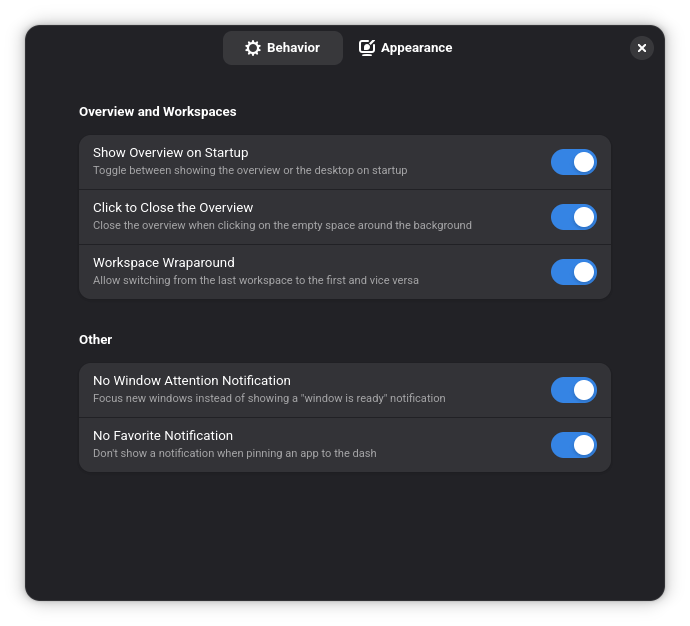
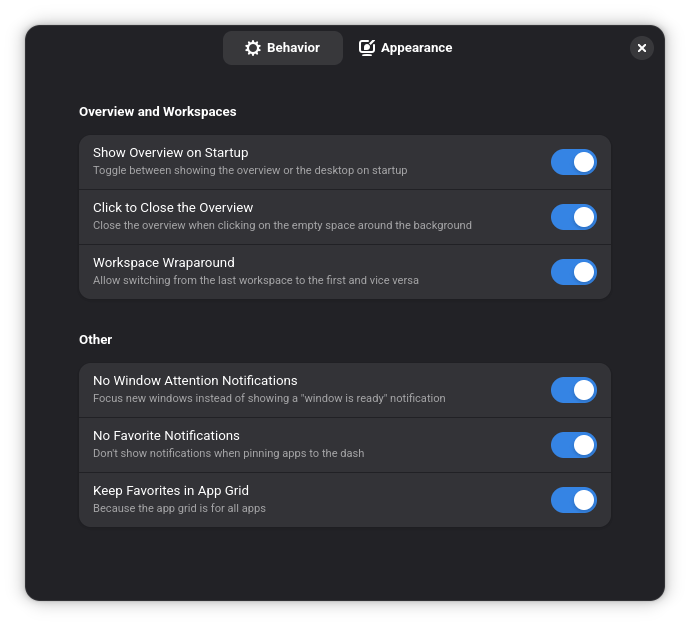
Keep favorite apps in app grid

Changed region(s): [[0.1217, 0.7588, 0.3957, 0.8195], [0.213, 0.6981, 0.5478, 0.7284], [0.7913, 0.7588, 0.8826, 0.8195]]

diff --git a/src/lib/keepFavoritesInAppGrid.js b/src/lib/keepFavoritesInAppGrid.js
@@ -1,0 +1,108 @@
+import GObject from 'gi://GObject';
+
+import * as Main from 'resource:///org/gnome/shell/ui/main.js';
+import * as AppFavorites from 'resource:///org/gnome/shell/ui/appFavorites.js';
+
+import { AppDisplay, FolderView } from 'resource:///org/gnome/shell/ui/appDisplay.js';
+import { DashIcon } from 'resource:///org/gnome/shell/ui/dash.js';
+import { DragDropResult } from 'resource:///org/gnome/shell/ui/dnd.js';
+import { InjectionManager } from 'resource:///org/gnome/shell/extensions/extension.js';
+
+export class KeepFavoritesInAppGrid {
+  constructor(settings) {
+    this._settings = settings;
+    this._appDisplay = Main.overview._overview.controls.appDisplay;
+    this._favorites = AppFavorites.getAppFavorites();
+
+    // Create an AppFavorites instance that later pretends to have no favorites
+    this._dummyFavorites = new this._favorites.constructor();
+
+    this._signal = this._settings.connect('changed::keep-favorites-in-app-grid', () => {
+      this.update();
+    });
+
+    this._injectionManager = new InjectionManager();
+  }
+
+  update() {
+    if (this._settings.get_boolean('keep-favorites-in-app-grid')) {
+      this.enable();
+    } else {
+      this.disable();
+    }
+  }
+
+  enable() {
+    const mod = this;
+
+    // Show favorites in AppDisplay
+    this._injectionManager.overrideMethod(AppDisplay.prototype, '_redisplay', originalFn => function () {
+      this._appFavorites = mod._dummyFavorites;
+
+      originalFn.call(this);
+
+      // Fix folder icon previews not showing favorite apps
+      // https://github.com/brunos3d/pinned-apps-in-appgrid/issues/3
+      if (this._folderIcons) {
+        this._folderIcons.forEach(folderIcon => {
+          if (folderIcon && folderIcon.icon) {
+            folderIcon.icon.update();
+          }
+        });
+      }
+    });
+
+    // Show favorites in FolderView
+    this._injectionManager.overrideMethod(FolderView.prototype, '_redisplay', originalFn => function () {
+      this._appFavorites = mod._dummyFavorites;
+
+      originalFn.call(this);
+    });
+
+    // Remove apps from favorites when they are dragged from the dash to the app grid
+    this._injectionManager.overrideMethod(this._appDisplay, 'acceptDrop', originalFn => function (source) {
+      // Gjs_dash-to-dock_micxgx_gmail_com_appIcons_DockAppIcon
+      // Gjs_dash-to-panel_jderose9_github_com_appIcons_TaskbarAppIcon
+      const isDashIcon = source instanceof DashIcon || GObject.type_name(source).endsWith('AppIcon');
+
+      if (isDashIcon) {
+        if (mod._favorites.isFavorite(source.id)) {
+          mod._favorites.removeFavorite(source.id);
+        }
+
+        return DragDropResult.SUCCESS;
+      }
+
+      return originalFn.call(this, source);
+    });
+
+    this._injectionManager.overrideMethod(this._dummyFavorites, 'isFavorite', () => function () {
+      return false;
+    });
+
+    this._appDisplay._disconnectDnD();
+    this._appDisplay._connectDnD();
+    this._appDisplay._redisplay();
+  }
+
+  disable() {
+    this._injectionManager.clear();
+
+    this._appDisplay._disconnectDnD();
+    this._appDisplay._connectDnD();
+    this._appDisplay._redisplay();
+  }
+
+  destroy() {
+    this._settings.disconnect(this._signal);
+
+    this.disable();
+
+    this._settings = null;
+    this._signal = null;
+    this._appDisplay = null;
+    this._favorites = null;
+    this._dummyFavorites = null;
+    this._injectionManager = null;
+  }
+}

diff --git a/src/prefs.js b/src/prefs.js
@@ -41,7 +41,7 @@ export default class EssentialTweaksPreferences extends ExtensionPreferences {
 
     const noWindowReadyNotificationsRow = new Adw.SwitchRow({
       title: _('No Window Attention Notifications'),
-      subtitle: _('Focus new windows instead of showing a \"window is ready\" notification')
+      subtitle: _('Focus new windows instead of showing a "window is ready" notification')
     });
     otherGroup.add(noWindowReadyNotificationsRow);
 
@@ -50,6 +50,12 @@ export default class EssentialTweaksPreferences extends ExtensionPreferences {
       subtitle: _('Don\'t show notifications when pinning apps to the dash')
     });
     otherGroup.add(noFavoriteNotificationsRow);
+
+    const keepFavoritesInAppGridRow = new Adw.SwitchRow({
+      title: _('Keep Favorites in App Grid'),
+      subtitle: _('Because the app grid is for all apps')
+    });
+    otherGroup.add(keepFavoritesInAppGridRow);
 
     const appearancePage = new Adw.PreferencesPage({
       title: _('Appearance'),
@@ -78,6 +84,7 @@ export default class EssentialTweaksPreferences extends ExtensionPreferences {
     window._settings = this.getSettings();
 
     window._settings.bind('click-to-close-overview', clickToCloseOverviewRow, 'active', Gio.SettingsBindFlags.DEFAULT);
+    window._settings.bind('keep-favorites-in-app-grid', keepFavoritesInAppGridRow, 'active', Gio.SettingsBindFlags.DEFAULT);
     window._settings.bind('no-favorite-notifications', noFavoriteNotificationsRow, 'active', Gio.SettingsBindFlags.DEFAULT);
     window._settings.bind('no-window-ready-notifications', noWindowReadyNotificationsRow, 'active', Gio.SettingsBindFlags.DEFAULT);
     window._settings.bind('panel-corners', panelCornersRow, 'active', Gio.SettingsBindFlags.DEFAULT);

diff --git a/src/lib/panelCorners.js b/src/lib/panelCorners.js
@@ -5,6 +5,7 @@ import GObject from 'gi://GObject';
 import St from 'gi://St';
 
 import * as Main from 'resource:///org/gnome/shell/ui/main.js';
+
 import { ANIMATION_TIME } from 'resource:///org/gnome/shell/ui/overview.js';
 
 export class PanelCorners {
@@ -128,8 +129,8 @@ class PanelCorner extends St.DrawingArea {
     this._radius = 12 * scaleFactor;
 
     this._signals = [
-      this._settings.connect('changed::panel-corners-left-color', this.vfunc_style_changed.bind(this)),
-      this._settings.connect('changed::panel-corners-right-color', this.vfunc_style_changed.bind(this))
+      this._settings.connect('changed::panel-left-corner-color', this.vfunc_style_changed.bind(this)),
+      this._settings.connect('changed::panel-right-corner-color', this.vfunc_style_changed.bind(this))
     ];
 
     this._positionChangeHandler = Main.panel.connect('notify::position', this._updateCornerPosition.bind(this));
@@ -211,7 +212,7 @@ class PanelCorner extends St.DrawingArea {
 
   _getCornerColor() {
     const side = this._side === St.Side.LEFT ? 'left' : 'right';
-    const color = this._settings.get_string(`panel-corners-${side}-color`);
+    const color = this._settings.get_string(`panel-${side}-corner-color`);
 
     return Cogl.color_from_string(color)[1];
   }

diff --git a/src/extension.js b/src/extension.js
@@ -1,6 +1,7 @@
 import { Extension } from 'resource:///org/gnome/shell/extensions/extension.js';
 
 import { ClickToCloseOverview } from './lib/clickToCloseOverview.js';
+import { KeepFavoritesInAppGrid } from './lib/keepFavoritesInAppGrid.js';
 import { NoFavoriteNotifications } from './lib/noFavoriteNotifications.js';
 import { NoOverviewOnStartup } from './lib/noOverviewOnStartup.js';
 import { NoWindowReadyNotifications } from './lib/noWindowReadyNotifications.js';
@@ -14,6 +15,7 @@ export default class EssentialTweaksExtension extends Extension {
 
     this._modules = [
       new ClickToCloseOverview(this._settings),
+      new KeepFavoritesInAppGrid(this._settings),
       new NoFavoriteNotifications(this._settings),
       new NoOverviewOnStartup(this._settings),
       new NoWindowReadyNotifications(this._settings),

diff --git a/src/lib/noFavoriteNotifications.js b/src/lib/noFavoriteNotifications.js
@@ -23,11 +23,13 @@ export class NoFavoriteNotifications {
   }
 
   enable() {
-    this._injectionManager.overrideMethod(this._favorites, 'addFavoriteAtPos', () => function (appId, pos) {
+    const favoritesProto = this._favorites.constructor.prototype;
+
+    this._injectionManager.overrideMethod(favoritesProto, 'addFavoriteAtPos', () => function (appId, pos) {
       this._addFavorite(appId, pos);
     });
 
-    this._injectionManager.overrideMethod(this._favorites, 'removeFavorite', () => function (appId) {
+    this._injectionManager.overrideMethod(favoritesProto, 'removeFavorite', () => function (appId) {
       this._removeFavorite(appId);
     });
   }

diff --git a/README.md b/README.md
@@ -18,5 +18,8 @@ This extension partially contains code adapted from the following projects:
 - Just Perfection by Javad Rahmatzadeh\
   https://gitlab.gnome.org/jrahmatzadeh/just-perfection
 
+- Pinned Apps in App Grid by Bruno Silva
+  https://github.com/brunos3d/pinned-apps-in-appgrid
+
 - Panel Corners by Aurélien Hamy\
   https://github.com/aunetx/panel-corners
